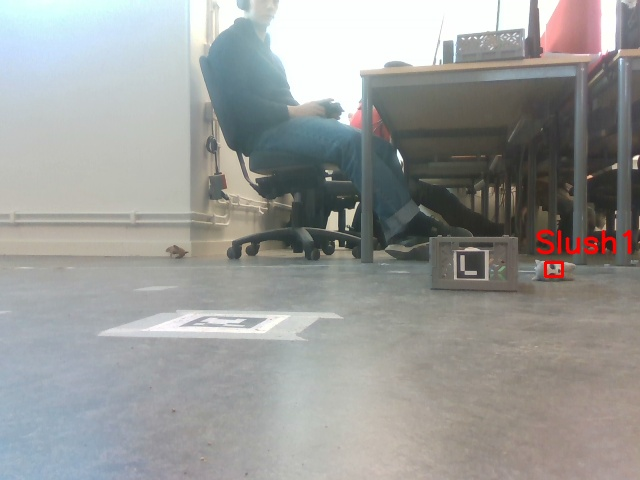
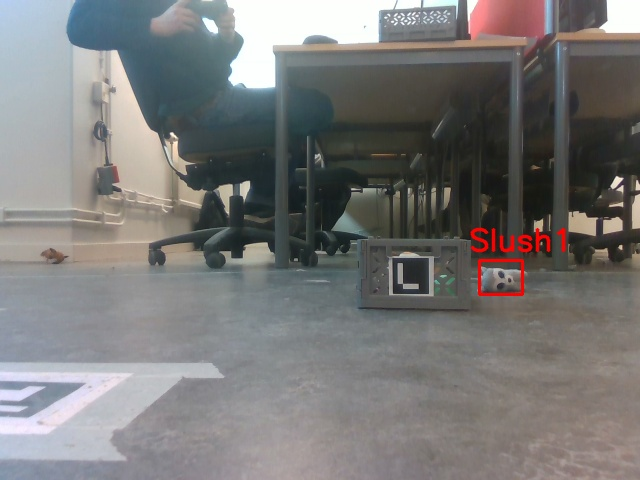
extended range

diff --git a/mapping/src/mapping_node.py b/mapping/src/mapping_node.py
@@ -114,7 +114,7 @@ class Mapping():
 
         # Convert ROS -> Open3D
         cloud = o3drh.rospc_to_o3dpc(msg)
-        cropped = cloud.crop(o3d.geometry.AxisAlignedBoundingBox(min_bound=np.array([-100.0, -0.4, -100.0]), max_bound=np.array([100.0, 0.0, 1.2 ])))
+        cropped = cloud.crop(o3d.geometry.AxisAlignedBoundingBox(min_bound=np.array([-100.0, -0.4, -100.0]), max_bound=np.array([100.0, 0.04, 2.0 ])))
         cropped = cropped
         
         # Downsample the point cloud to 1/10 of resolution 
@@ -129,6 +129,15 @@ class Mapping():
         # import points in to grid map         
         #if len(points) == 0:
         #    return
+
+        try:
+            map_base_link = self.tf_buffer.lookup_transform('map', 'base_link', msg.header.stamp) # TransformStamped
+            #self.grid_map.update_robot_pose(map_base_link)
+            self.robot_pose = [map_base_link.transform.translation.x, map_base_link.transform.translation.y, tf.transformations.euler_from_quaternion([map_base_link.transform.rotation.x, map_base_link.transform.rotation.y, map_base_link.transform.rotation.z, map_base_link.transform.rotation.w])[2]]
+        except (tf2_ros.LookupException, tf2_ros.ConnectivityException, tf2_ros.ExtrapolationException) as e:
+            rospy.logwarn(e)
+
+
                         
         new_points = np.zeros((len(points),2))
         new_points[:,0] = points[:,2]
@@ -140,7 +149,7 @@ class Mapping():
         #if self.p_cloud_cont%3 == 0:
         #    points = np.vstack(points)
         #    self.p_cloud_buffer = []
-        self.grid_map.import_point_cloud_rays_inf(points,1.2,self.robot_pose[0],self.robot_pose[1],self.robot_pose[2])
+        self.grid_map.import_point_cloud_rays_inf(points,2.0,self.robot_pose[0],self.robot_pose[1],self.robot_pose[2])
         
         return
 

diff --git a/mapping/src/grid_map_pkg/grid_map.py b/mapping/src/grid_map_pkg/grid_map.py
@@ -538,7 +538,7 @@ class GridMap():
         
         # Filter unique rays
         rays, counts = np.unique(rays_ind,axis=0,return_counts=True)
-        rays = rays[counts > 2]
+        rays = rays[counts > 0]
         index = rays[:,0].astype(int)
         ranges = rays[:,1]
         # Ray array
